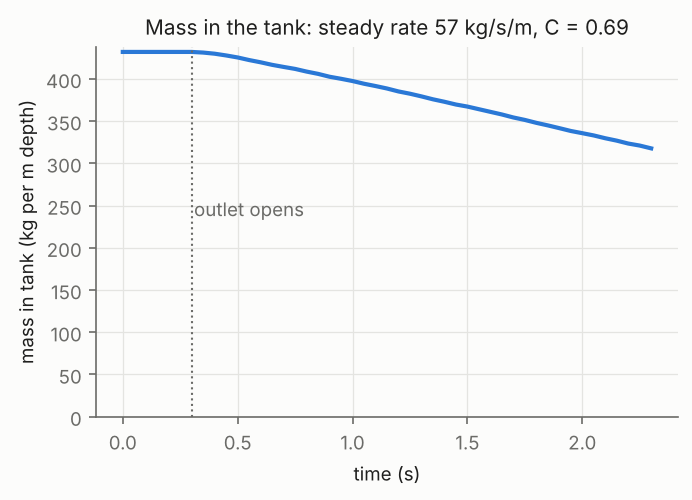
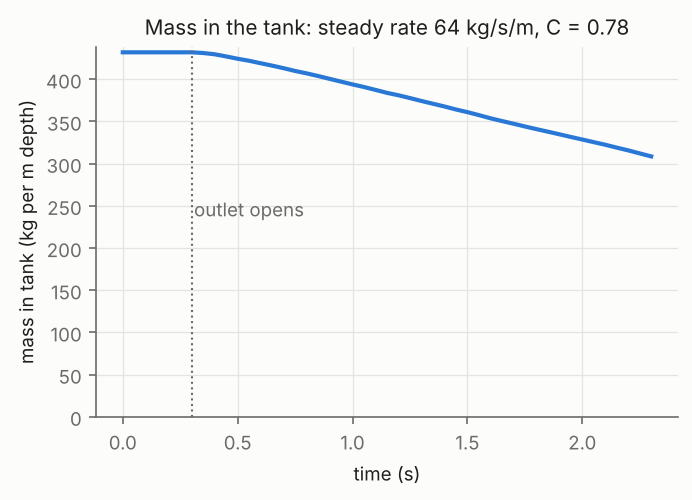
siloDischarge tutorial: T0 rule set with normalCap (decision 0050)
Adds normalCap yes; reruns the 10 MPa case (64.4 kg/s/m, C 0.78) for the
snapshots and mass plot; rate plot shows the three-run bands of both rule
sets; README and STATUS updated.

Claude-Session: https://claude.ai/code/session_01KEGtGUUaAAxetQddtV1HTS

diff --git a/tutorials/siloDischarge/rate_vs_E.py b/tutorials/siloDischarge/rate_vs_E.py
@@ -1,8 +1,9 @@
-"""Discharge rate against stiffness E, WP 3.6d (decision 0045).
+"""Discharge rate against stiffness E (decisions 0045, 0046, 0050).
 
-The numbers are from tests/manual/test_discharge_stiffness.sh (celVoidCheck,
-rate over 97 to 88 percent of the mass at opening) on 2026-11-17. Writes
-rate_vs_E.png. Rerun the sweep to refresh them.
+Means of three runs (maxCo 0.40 / 0.38 / 0.36) from
+tests/manual/test_discharge_scatter.sh (celVoidCheck, rate over 97 to 88
+percent of the mass at opening), 10 mm, 2026-11-18; error bars show the
+range. Writes rate_vs_E.png. Rerun the sweep to refresh them.
 """
 import math
 
@@ -11,10 +12,11 @@ matplotlib.use("Agg")
 import matplotlib.pyplot as plt  # noqa: E402
 
 E = [0.1, 1.0, 10.0]
-RUNS = [  # label, E values, rates (kg/s per m depth), colour, marker, style
-    ("mu(I) + flow impedance, 10 mm (this package)", E, [65.5, 53.8, 67.7], "#2a78d6", "o", "-"),
-    ("mu(I) + flow impedance, 5 mm (this package)", E[:2], [77.6, 61.2], "#1baf7a", "s", "-"),
-    ("flow impedance before the fix, 10 mm", E, [62.3, 49.8, 12.4], "#eb6834", "^", "--"),
+RUNS = [  # label, E values, mean rates, lows, highs (kg/s per m depth), colour, marker, style
+    ("T0 rule set: mu(I) + flow impedance + normal cap (this tutorial)", E,
+     [73.6, 61.0, 58.8], [73.5, 59.4, 51.6], [73.8, 63.2, 67.6], "#2a78d6", "o", "-"),
+    ("mu(I) + flow impedance (decision 0046)", E,
+     [65.8, 52.0, 60.8], [65.5, 50.6, 56.5], [66.3, 53.8, 67.7], "#eb6834", "s", "--"),
 ]
 RHO, G, D = 1800.0, 9.81, 0.06
 scale = RHO * math.sqrt(G) * D ** 1.5            # rate for C = 1
@@ -28,9 +30,10 @@ ax.axhspan(1.0 * scale, 1.9 * scale, color="#e4e4e1", lw=0)
 ax.axhline(1.45 * scale, color=MUTED, lw=1, ls=":")
 ax.text(0.085, 1.45 * scale + 2, "Beverloo, continuum mu(I) refs: C = 1.45 (band 1.0 to 1.9)",
         color=MUTED, fontsize=8)
-for label, e, r, c, mk, ls in RUNS:
-    ax.plot(e, r, color=c, marker=mk, ms=7, lw=2, ls=ls, label=label,
-            markeredgecolor=SURFACE, markeredgewidth=1.5)
+for label, e, r, lo, hi, c, mk, ls in RUNS:
+    ax.errorbar(e, r, yerr=[[a - b for a, b in zip(r, lo)], [b - a for a, b in zip(r, hi)]],
+                color=c, marker=mk, ms=7, lw=2, ls=ls, label=label, capsize=3,
+                markeredgecolor=SURFACE, markeredgewidth=1.5)
 ax.set_xscale("log")
 ax.set_xticks(E)
 ax.set_xticklabels(["0.1", "1", "10"])

diff --git a/tutorials/siloDischarge/README.md b/tutorials/siloDischarge/README.md
@@ -9,6 +9,7 @@ opens and the material flows out for 2 s.
 | Tank | 0.40 m wide, filled to 0.60 m, outlet 0.06 m wide in the middle of the floor |
 | Material | rho 1800 kg/m3, E 10 MPa (T0), nu 0.3, Mohr-Coulomb phi 35 deg, c 0 |
 | Friction | mu(I): mu_s = tan 35 = 0.70, mu_2 = 0.96, I0 0.279, grains 1 mm (placeholders, decision 0037) |
+| Rule set | T0 rule set (decision 0050): mu(I) + `flowImpedance` + `normalCap`, with `shearCap` and `spreadLayers` |
 | Walls, floor | friction 20 deg; outlet closed (20 deg) until 0.3 s |
 | Mesh | 10 mm square cells, 40 x 62, one cell deep |
 
@@ -18,7 +19,7 @@ opens and the material flows out for 2 s.
 source /usr/lib/openfoam/openfoam2512/etc/bashrc   # tools/setup_openfoam.sh installs it
 ./Allwmake                                          # from the repository root, once
 cd tutorials/siloDischarge
-./Allrun          # E = 10 MPa, about 8 minutes on one core
+./Allrun          # E = 10 MPa, about 11 minutes on one core
 ./Allrun 0.1      # softer material, about 40 s
 ./Allrun 10 4     # on 4 processors
 python3 plot.py   # snapshots.png, mass.png, rate.txt (needs numpy, matplotlib)
@@ -40,31 +41,35 @@ the stream are void: the material loosens as it speeds up towards the outlet.
 ![Mass in the tank](mass.png)
 
 After a short start the tank empties at a steady rate (the Beverloo regime, rate
-independent of the fill height): about 57 kg/s per metre of depth here.
+independent of the fill height): about 64 kg/s per metre of depth here (C = 0.78).
 
 ## Rate against stiffness
 
 ![Rate against E](rate_vs_E.png)
 
 The rate should not depend on E (Sia rejected a soft E as unmeasurable, decision 0036).
-With this package (decision 0045) 0.1 and 10 MPa agree within 3 % at 10 mm, but 1 MPa
-is about 20 % slow on both meshes, so the check is not passed yet. Before the fix the
-10 MPa case barely flowed (orange). A single 10 mm rate also scatters by about 15 %
-between runs that differ only in round-off (this case run through celFoam gives 57.5
-kg/s/m at 10 MPa, the test driver 67.7).
+Each point is the mean of three runs that differ only in round-off (bars: the range).
+With the T0 rule set (blue, decision 0050) the tank gives 73.6 / 61.0 / 58.8 kg/s/m at
+0.1 / 1 / 10 MPa: 1 and 10 MPa are about 17 and 20 % below 0.1 MPa, and a single 10 MPa
+run can land anywhere from 52 to 68 (this tutorial run gave 64.4). About 20 % is
+accepted for now; dilatancy (decision 0048) and a gradual full / partly filled blend
+(decision 0049) were tried and did not remove it. The same rule set keeps the inclined
+layer within 5 % of the exact flow and puts the column collapse in its experimental
+band at T0's E (decision 0050).
 
 Beverloo constant C = rate / (rho sqrt(g) D^1.5) is 0.69 to 0.94, below the band from
 the continuum mu(I) papers (C about 1.45; Staron et al. 2014, Zhou et al. 2017, see
 `docs/spec/validation-references.md`). Those used a friction of 0.32 to 0.38 against
-0.70 here, so a slower flow is expected; C also rises with mesh refinement (0.79 at
-10 mm, 0.94 at 5 mm, 0.1 MPa).
+0.70 here, so a slower flow is expected; C also rises with mesh refinement (0.79 against
+0.94 at 5 mm, 0.1 MPa, before the normal cap; now 0.89 at 10 mm, 0.1 MPa).
 
 `rate_vs_E.py` redraws the plot from the numbers of
-`tests/manual/test_discharge_stiffness.sh`.
+`tests/manual/test_discharge_scatter.sh`
+(`CEL_EXTRA_MATERIAL='normalCap yes;'` for the blue line).
 
 ## Dictionaries first used here
 
 All in `constant/materialProperties` (commented there): `freeSurface`, the mu(I)
 entries `mu2`, `I0`, `d`, `rhoS`, the switches `shearCap`, `spreadLayers`,
-`flowImpedance`, the `walls` friction list and `outlets` (friction, `openTime`). In
+`flowImpedance`, `normalCap`, the `walls` friction list and `outlets` (friction, `openTime`). In
 `system/controlDict`: `gravityRamp` (s) and `damping` (1/s, until the outlet opens).

diff --git a/docs/STATUS.md b/docs/STATUS.md
@@ -1,6 +1,6 @@
 # Status
 
-Last updated: 2026-11-18 (WP 3.6e, 3.6h, 3.6g, 3.6f; 4.1, 4.0, 4.2; 2026-11-17: 3.6d, 3.6c2, 3.6c, 3.6b, 3.6s, validation references)
+Last updated: 2026-11-18 (tutorial T0 rule set, WP 3.6e, 3.6h, 3.6g, 3.6f; 4.1, 4.0, 4.2; 2026-11-17: 3.6d, 3.6c2, 3.6c, 3.6b, 3.6s, validation references)
 
 Plan doc: https://claude.ai/artifact/DTT6kSikz9ZUTBkUxY6Grr
 
@@ -152,8 +152,9 @@ Silo track (decision 0016), one thread each:
    2026-11-18; to confirm with Sia).
 25. WP 3.6e: collapse with mu(I). Done at 10 mm (decision 0050). T0 rule set:
    mu(I) + flowImpedance + normalCap.
-26. Next: switch `tutorials/siloDischarge` to the T0 rule set (small), then WP 3.5
-   (cohesion).
+26. `tutorials/siloDischarge` uses the T0 rule set (normalCap added, 2026-11-18): 64.4
+   kg/s/m at 10 MPa (C 0.78), pictures and rate plot refreshed.
+27. Next: WP 3.5 (cohesion), in its own thread.
    Keep runs coarse and short: Sia asked to be frugal with Claude usage (2026-11-15).
 
 Then the C++ counterparts 3.1 to 3.4 (2.4b is done; briefs not written yet) and 3.5
